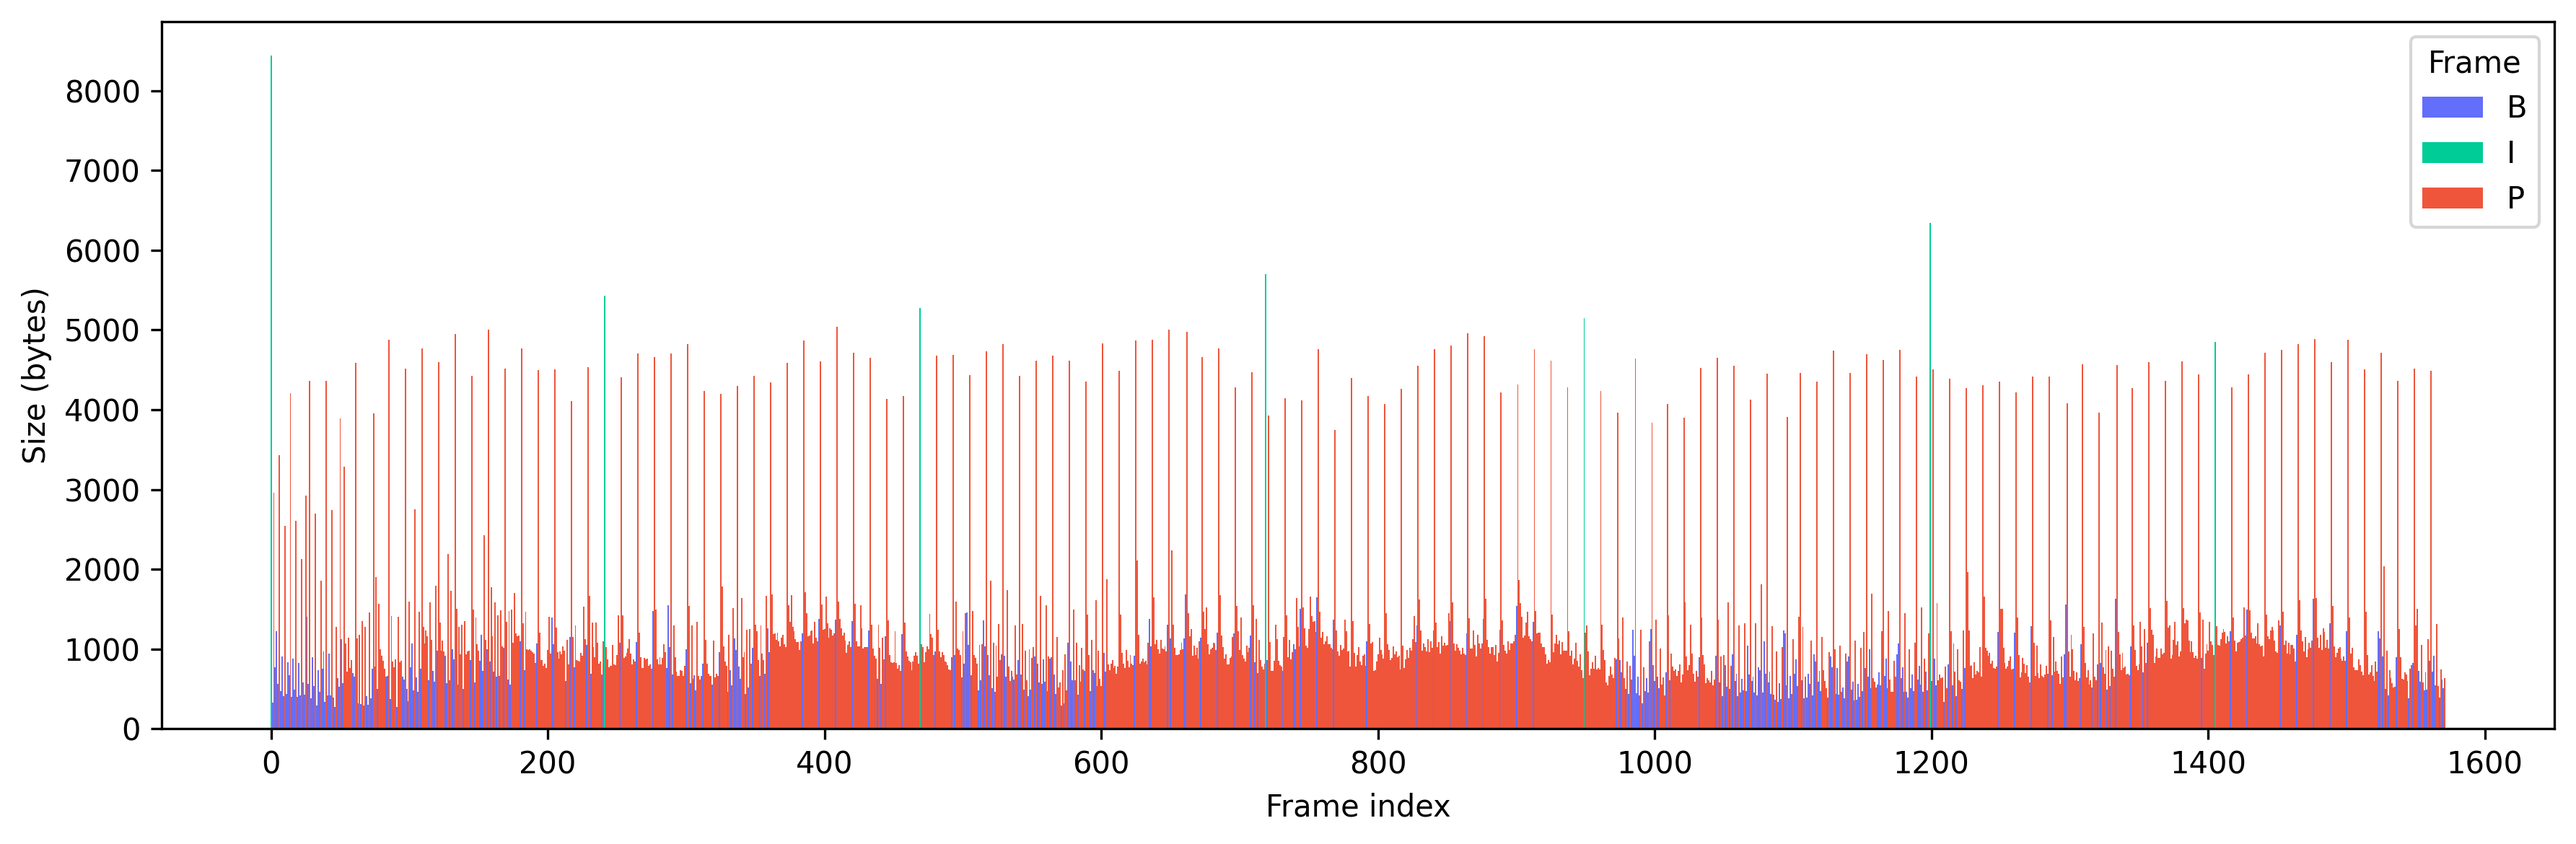
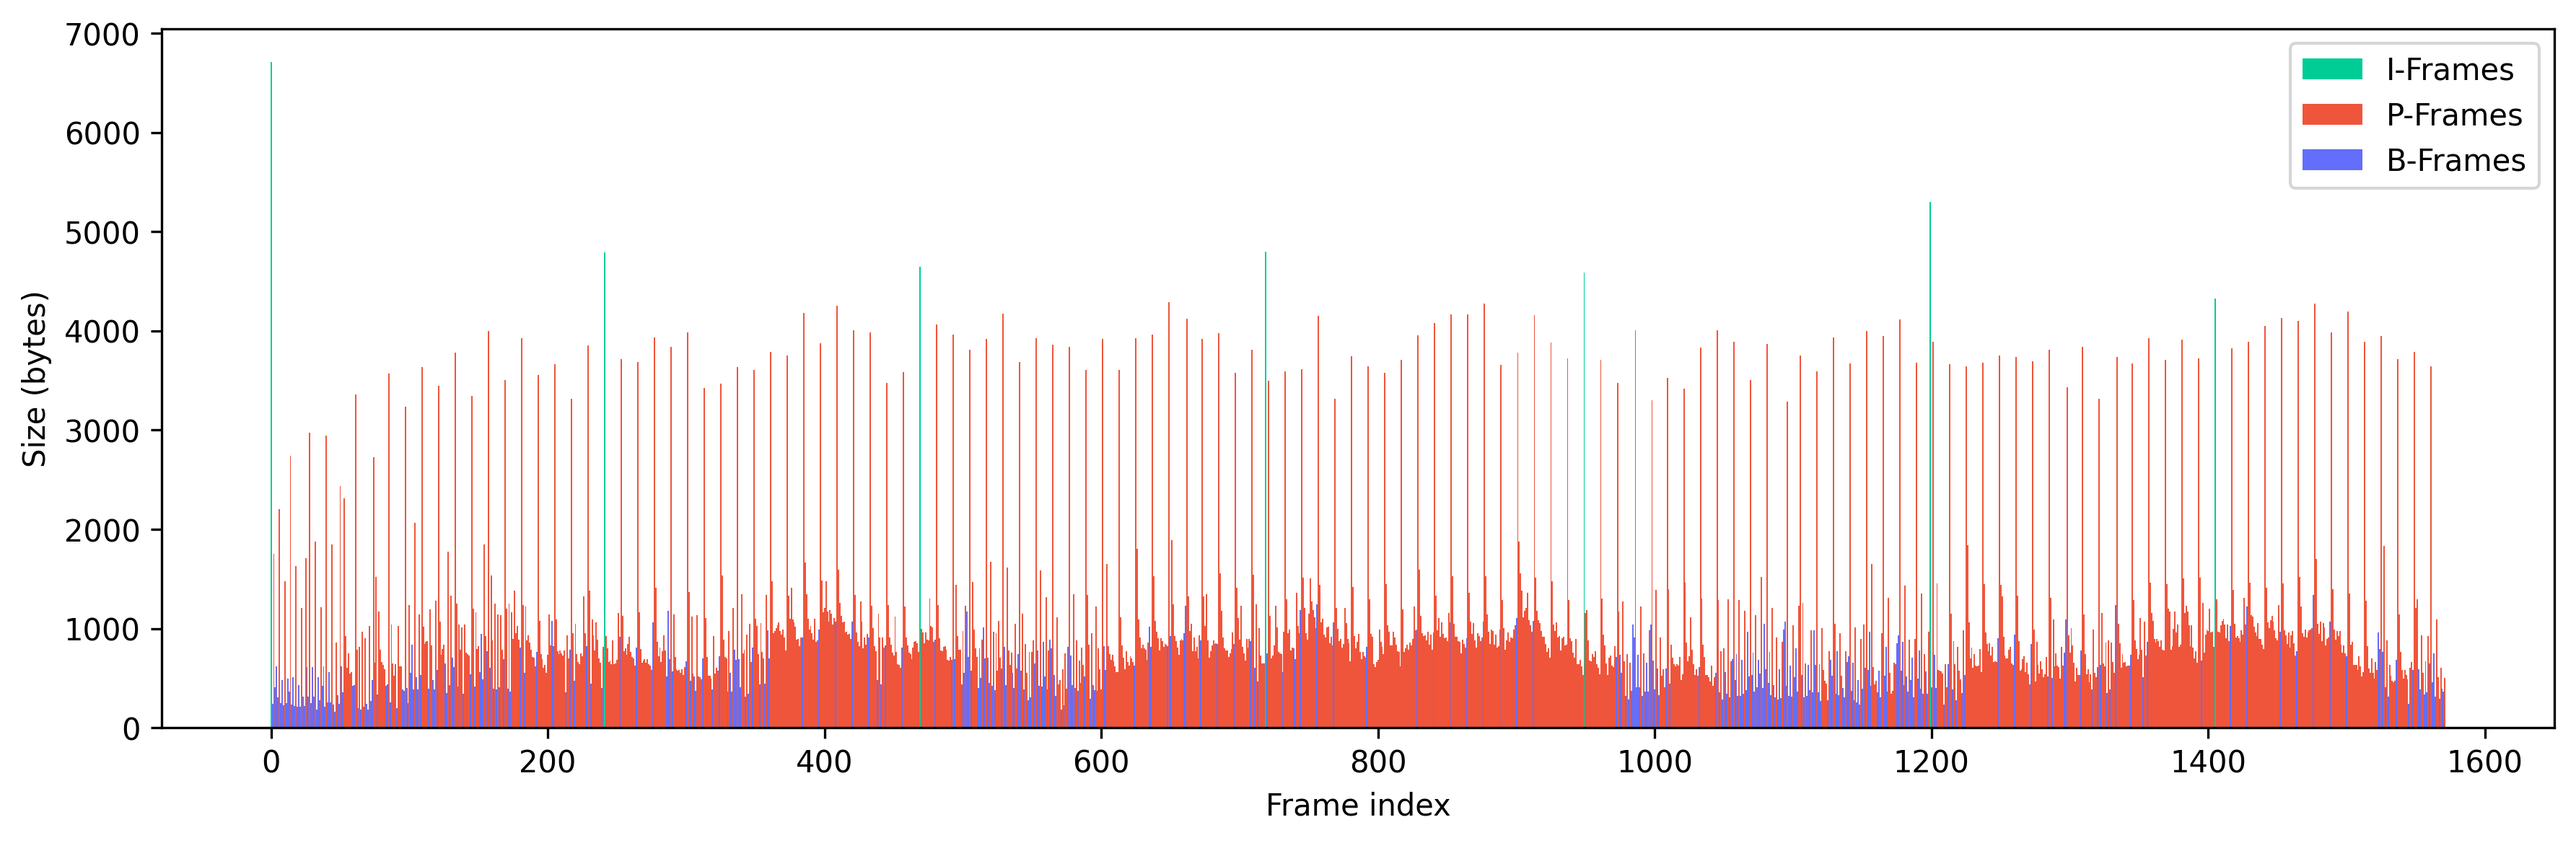
Update IPB frames figure

diff --git a/musicalgestures/_info.py b/musicalgestures/_info.py
@@ -66,7 +66,12 @@ def mg_info(self, type=None, autoshow=True, overwrite=False):
 
             for i, (label, series) in enumerate(df.groupby('type')):
                 plot_frames(series, label, index=i)
-            ax.legend(title='Frame')
+
+            # Get handles and labels
+            handles, labels = plt.gca().get_legend_handles_labels()
+            order = [1,2,0] # specify order of items in legend       
+            # Add legend to plot
+            ax.legend([handles[idx] for idx in order],[labels[idx] for idx in order]) 
             ax.set_xlabel('Frame index')
             ax.set_ylabel('Size (bytes)')
             fig.tight_layout()
@@ -112,4 +117,4 @@ def plot_frames(df, label, color_list=['#636EFA','#00CC96','#EF553B'], index=0):
     xs = df['frame index']
     ys = df['size (bytes)']
     # Plot the bar plot
-    plt.bar(xs, ys, label=label, width=1, color=color_list[index])
+    plt.bar(xs, ys, label=label + '-Frames', width=1, color=color_list[index])
